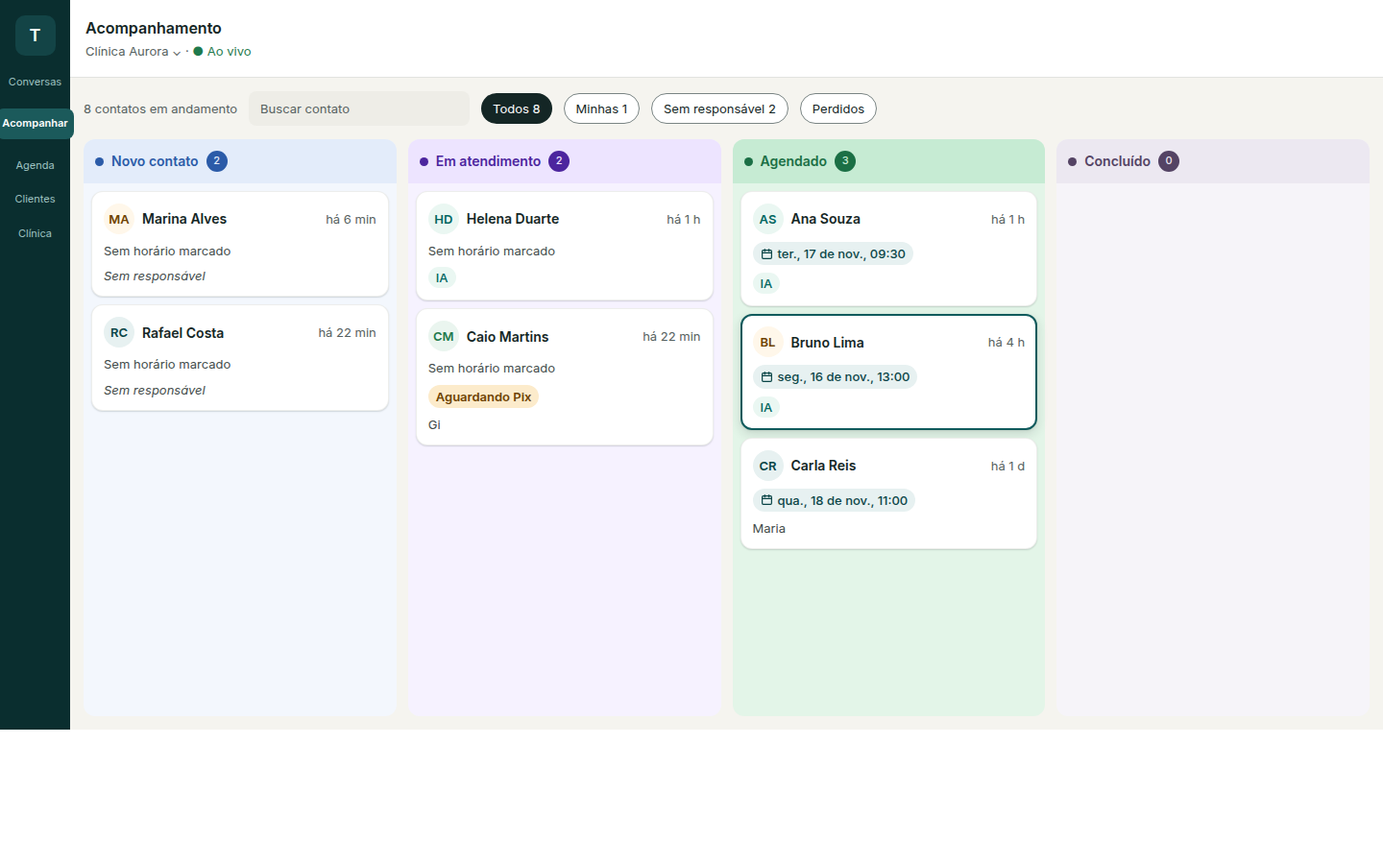
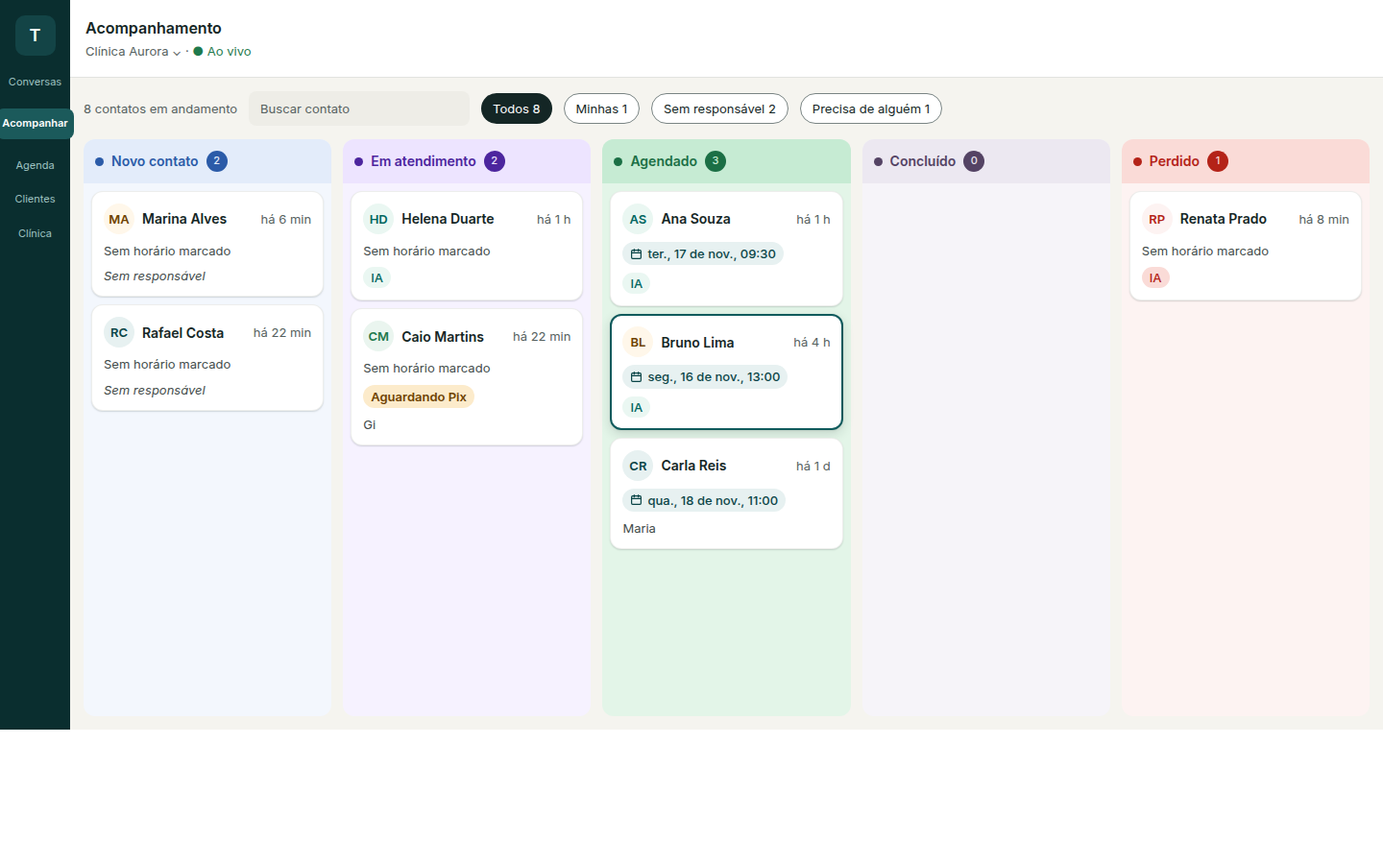
feat(panel): keep lost column visible (#1054)

diff --git a/src/client/panel/screens/acompanhamento/AcompanhamentoWideBoard.tsx b/src/client/panel/screens/acompanhamento/AcompanhamentoWideBoard.tsx
@@ -1,5 +1,5 @@
 import { CalendarDays, Search } from 'lucide-react'
-import { useEffect, useMemo, useRef, useState } from 'react'
+import { useEffect, useRef, useState } from 'react'
 import { Button, Input, SearchField } from 'react-aria-components'
 import type { OpportunityStage, PanelApi, PipelineOpportunity } from '../../api'
 import { useClinicTimezone } from '../../clinicTimezone'
@@ -20,12 +20,13 @@ import {
   relativeTime,
 } from './format'
 
-/** Etapas com coluna própria; «Perdido» só aparece quando a pessoa pede. */
+/** Etapas com coluna própria, incluindo o destino terminal DEC-228. */
 const MAIN_STAGES: OpportunityStage[] = [
   'novo_contato',
   'em_atendimento',
   'agendado',
   'concluido',
+  'perdido',
 ]
 
 type Filter = 'all' | 'mine' | 'unassigned' | 'needs_person'
@@ -57,7 +58,6 @@ export function AcompanhamentoWideBoard({ tenantId, api, generation, openId }: P
   const [viewerId, setViewerId] = useState<string | null>(null)
   const [filter, setFilter] = useState<Filter>('all')
   const [q, setQ] = useState('')
-  const [showLost, setShowLost] = useState(false)
   const [professionals, setProfessionals] = useState<Array<{ id: string; name: string }>>([])
   const [profFilter, setProfFilter] = useState<string[]>([])
   const returnFocus = useRef<HTMLElement | null>(null)
@@ -66,16 +66,11 @@ export function AcompanhamentoWideBoard({ tenantId, api, generation, openId }: P
   const { captureBeforeUpdate } = useKanbanFlip(boardRef, byStage)
   useOutsideClose(panelRef, () => closePanel(), openId != null)
 
-  const stages = useMemo<OpportunityStage[]>(
-    () => (showLost ? [...MAIN_STAGES, 'perdido'] : MAIN_STAGES),
-    [showLost],
-  )
-
   async function load(opts?: { keep?: boolean }) {
     setError(null)
     try {
       const results = await Promise.all(
-        stages.map((stage) =>
+        MAIN_STAGES.map((stage) =>
           api.listPipelineOpportunities(
             tenantId,
             // Concluído e Perdido são etapas finais (oportunidade «closed»): sem isto vêm sempre vazias.
@@ -85,7 +80,7 @@ export function AcompanhamentoWideBoard({ tenantId, api, generation, openId }: P
         ),
       )
       const next: Partial<Record<OpportunityStage, PipelineOpportunity[]>> = {}
-      stages.forEach((stage, i) => {
+      MAIN_STAGES.forEach((stage, i) => {
         next[stage] = results[i]?.opportunities ?? []
       })
       captureBeforeUpdate()
@@ -99,7 +94,7 @@ export function AcompanhamentoWideBoard({ tenantId, api, generation, openId }: P
 
   useEffect(() => {
     void load()
-  }, [tenantId, generation, stages])
+  }, [tenantId, generation])
 
   // Debounce maior no wide (várias colunas): coalescer rajadas sem jitter.
   useInboxRealtime((signals) => {
@@ -205,7 +200,7 @@ export function AcompanhamentoWideBoard({ tenantId, api, generation, openId }: P
   }
   if (!byStage) return <ListSkeleton label="Carregando acompanhamento…" />
 
-  const all = stages.flatMap((s) => byStage[s] ?? [])
+  const all = MAIN_STAGES.flatMap((s) => byStage[s] ?? [])
   // DEC-187: «contatos em andamento» = contactos distintos (gémeo não duplica o total).
   const total = new Set(
     all
@@ -257,13 +252,6 @@ export function AcompanhamentoWideBoard({ tenantId, api, generation, openId }: P
               </span>
             </Button>
           ))}
-          <Button
-            className="panel-chip"
-            aria-pressed={showLost}
-            onPress={() => setShowLost((v) => !v)}
-          >
-            Perdidos
-          </Button>
         </div>
         {professionals.length > 1 ? (
           <div className="acomp-wide-filters" role="group" aria-label="Filtrar por profissional">
@@ -300,7 +288,7 @@ export function AcompanhamentoWideBoard({ tenantId, api, generation, openId }: P
       ) : null}
 
       <div ref={boardRef} className="acomp-wide-board" role="group" aria-label="Quadro por etapa">
-        {stages.map((stage) => {
+          {MAIN_STAGES.map((stage) => {
           const cards = (byStage[stage] ?? []).filter(visible)
           return (
             <section

diff --git a/docs/design/desktop/AcompanhamentoQuadro.dc.html b/docs/design/desktop/AcompanhamentoQuadro.dc.html
@@ -38,7 +38,7 @@ button:focus-visible,a:focus-visible{outline:2px solid #0E5A5C;outline-offset:2p
 <span style="display: inline-flex; align-items: center; height: 32px; box-sizing: border-box; padding: 0 12px; border-radius: 999px; background: #142625; color: #FFFFFF; font-size: 13px">Todos 8</span>
 <span style="display: inline-flex; align-items: center; height: 32px; box-sizing: border-box; padding: 0 12px; border-radius: 999px; border: 1px solid #7A8584; background: #FFFFFF; font-size: 13px">Minhas 1</span>
 <span style="display: inline-flex; align-items: center; height: 32px; box-sizing: border-box; padding: 0 12px; border-radius: 999px; border: 1px solid #7A8584; background: #FFFFFF; font-size: 13px">Sem responsável 2</span>
-<span style="display: inline-flex; align-items: center; height: 32px; box-sizing: border-box; padding: 0 12px; border-radius: 999px; border: 1px solid #7A8584; background: #FFFFFF; font-size: 13px">Perdidos</span>
+<span style="display: inline-flex; align-items: center; height: 32px; box-sizing: border-box; padding: 0 12px; border-radius: 999px; border: 1px solid #7A8584; background: #FFFFFF; font-size: 13px">Precisa de alguém 1</span>
 </div>
 
 <div style="flex: 1; min-height: 0; display: flex; gap: 12px">
@@ -99,6 +99,17 @@ button:focus-visible,a:focus-visible{outline:2px solid #0E5A5C;outline-offset:2p
 
 <section aria-label="Concluído, 0" style="flex: 1 1 0; min-width: 0; background: #F6F4F9; border-radius: 12px; display: flex; flex-direction: column">
 <h2 style="margin: 0 0 8px; padding: 12px; border-radius: 12px 12px 0 0; background: #ECE8F1; color: #544364; font-size: 14px; font-weight: 600; display: flex; align-items: center; gap: 8px"><span aria-hidden="true" style="width: 9px; height: 9px; border-radius: 5px; background: #544364"></span>Concluído<span style="min-width: 22px; height: 22px; border-radius: 999px; background: #544364; color: #ECE8F1; font-size: 11px; font-weight: 500; display: inline-flex; align-items: center; justify-content: center">0</span></h2>
+</section>
+
+<section aria-label="Perdido, 1" style="flex: 1 1 0; min-width: 0; background: #FDF3F2; border-radius: 12px; display: flex; flex-direction: column">
+<h2 style="margin: 0 0 8px; padding: 12px; border-radius: 12px 12px 0 0; background: #FADBD7; color: #B42318; font-size: 14px; font-weight: 600; display: flex; align-items: center; gap: 8px"><span aria-hidden="true" style="width: 9px; height: 9px; border-radius: 5px; background: #B42318"></span>Perdido<span style="min-width: 22px; height: 22px; border-radius: 999px; background: #B42318; color: #FADBD7; font-size: 11px; font-weight: 500; display: inline-flex; align-items: center; justify-content: center">1</span></h2>
+<div style="display: flex; flex-direction: column; gap: 8px; padding: 0 8px 8px">
+<article style="background: #FFFFFF; border: 1px solid rgba(225, 227, 224, 0.6); border-radius: 12px; padding: 12px; display: flex; flex-direction: column; gap: 8px; box-shadow: 0 1px 2px rgba(20, 38, 37, 0.10), 0 1px 1px rgba(20, 38, 37, 0.06)">
+<div style="display: flex; align-items: center; gap: 8px"><span aria-hidden="true" style="width: 32px; height: 32px; border-radius: 16px; background: #FDF3F2; color: #B42318; font-size: 13px; font-weight: 600; display: inline-flex; align-items: center; justify-content: center; flex: none">RP</span><span style="flex: 1; font-weight: 600">Renata Prado</span><span style="font-size: 13px; color: #566160; white-space: nowrap">há 8 min</span></div>
+<span style="font-size: 13px; color: #424B4A">Sem horário marcado</span>
+<span style="align-self: flex-start; padding: 2px 8px; border-radius: 999px; background: #FADBD7; color: #B42318; font-size: 13px; font-weight: 500">IA</span>
+</article>
+</div>
 </section>
 
 </div>

diff --git a/src/client/panel/screens/acompanhamento/AcompanhamentoWideBoard.test.tsx b/src/client/panel/screens/acompanhamento/AcompanhamentoWideBoard.test.tsx
@@ -96,7 +96,7 @@ describe('AcompanhamentoWideBoard (quadro em largura total)', () => {
   })
   afterEach(cleanup)
 
-  it('mostra uma coluna por etapa com a contagem; «Perdido» fica de fora', async () => {
+  it('mostra as cinco colunas por etapa com a contagem, incluindo Perdido', async () => {
     mount()
     const board = await screen.findByRole('group', { name: 'Quadro por etapa' })
     const cols = within(board).getAllByRole('region')
@@ -105,16 +105,15 @@ describe('AcompanhamentoWideBoard (quadro em largura total)', () => {
       'Em atendimento, 2',
       'Agendado, 1',
       'Concluído, 0',
+      'Perdido, 1',
     ])
-    expect(screen.queryByText('Renata Lopes')).toBeNull()
+    expect(screen.getByText('Renata Lopes')).toBeTruthy()
+    expect(screen.queryByRole('button', { name: 'Perdidos' })).toBeNull()
   })
 
   it('pede ao servidor as oportunidades encerradas só para Concluído e Perdido', async () => {
     const api = makeApi()
     mount(undefined, api)
-    const user = userEvent.setup()
-    await screen.findByText('Maria Souza')
-    await user.click(screen.getByRole('button', { name: 'Perdidos' }))
     await screen.findByText('Renata Lopes')
     const calls = (api.listPipelineOpportunities as ReturnType<typeof vi.fn>).mock.calls as Array<
       [string, { stage: string; includeClosed?: boolean }]
@@ -136,7 +135,7 @@ describe('AcompanhamentoWideBoard (quadro em largura total)', () => {
     expect(maria.querySelector('.inbox-avatar')?.textContent).toBe('MS')
     expect(maria.querySelector('.acomp-card-unassigned')?.textContent).toBe('Sem responsável')
     const dots = Array.from(board.querySelectorAll('.acomp-col-dot')).map((d) => d.getAttribute('data-stage'))
-    expect(dots).toEqual(['novo_contato', 'em_atendimento', 'agendado', 'concluido'])
+    expect(dots).toEqual(['novo_contato', 'em_atendimento', 'agendado', 'concluido', 'perdido'])
     const empty = within(board).getByRole('region', { name: 'Concluído, 0' })
     expect(within(empty).queryByText('Ninguém aqui')).toBeNull()
     expect(empty.querySelector('.acomp-col-empty')).toBeNull()
@@ -182,14 +181,6 @@ describe('AcompanhamentoWideBoard (quadro em largura total)', () => {
     } finally {
       DATA.agendado = previous
     }
-  })
-
-  it('«Perdidos» acrescenta a coluna Perdido', async () => {
-    mount()
-    const user = userEvent.setup()
-    await screen.findByText('Maria Souza')
-    await user.click(screen.getByRole('button', { name: 'Perdidos' }))
-    expect(await screen.findByText('Renata Lopes')).toBeTruthy()
   })
 
   it('filtros: Minhas e Sem responsável (sem «Parados há mais de 2 dias» — DEC-208)', async () => {
@@ -491,6 +482,7 @@ describe('AcompanhamentoWideBoard — cartões ao vivo', () => {
         'Em atendimento, 1',
         'Agendado, 1',
         'Concluído, 0',
+        'Perdido, 1',
       ])
       // Mesmo contacto nas duas colunas → «1 contato em andamento».
       expect(screen.getByText('1 contatos em andamento')).toBeTruthy()

diff --git a/docs/product/decisions.md b/docs/product/decisions.md
@@ -287,7 +287,7 @@ Enquanto essas decisões não estiverem fechadas, é possível demonstrar a jorn
 | DEC-225 | **Confirmado** (Paulo, 21/11/2026, America/Sao_Paulo — Project «Clínica mobile top margin»; relaciona [#1012](https://github.com/intentzero/tredane/pull/1012) retomar IA) | Após marcar/remarcar/cancelar na página web: limpar handoff e retomar IA | Com conversa em «falar com a equipe» / Assumir / alerta aberto, a cliente resolvia o pedido na página (ADR-0018) e o fio ficava pausado ou «Precisa de alguém», sem a IA voltar a conduzir. | **Confirmado.** Depois de **agendar**, **remarcar** ou **cancelar** com sucesso na página web da cliente: se a conversa tiver pedido de equipe / `alter_awaiting_team` aberto, pausa DEC-083 ou Assumir (`staff_active` / responsável humano), o backend **limpa** o alerta/pausa e **retoma** a condução por IA (`resumeAiReply`, responsável `system:ai-autodraft`). Pix só sinalizado (ainda não marcado) **não** dispara. Um helper partilhado nos três sucesso-paths (DEC-222). | Paulo 21/11/2026. Completa DEC-202 / ADR-0018 no pós-acção web; alinha o espírito de retoma da [#1012](https://github.com/intentzero/tredane/pull/1012) (idle) e DEC-155 timeout. Não altera Assumir→Terminar no chat. L1 CW-18. |
 | DEC-226 | **Confirmado** (Paulo, 21/11/2026, America/Sao_Paulo — Project «Clínica mobile top margin», TRE-126: «Mídia não deve chamar atendente»; screenshot staging com `[Imagem]` após pedido de quarta) | Mídia (áudio/imagem/documento) **não** abre handoff | DEC-119/132 faziam a 2.ª mídia e o comprovativo Pix por imagem pausarem a IA e abrirem «Precisa de alguém». A owner quer que mídia seja ignorada no conteúdo (DEC-067) e a cliente receba só a frase de não suportado, **sem** chamar a equipe. | **Confirmado.** (1) Áudio, imagem ou documento **sem** legenda útil → frase DEC-130 («Ainda não consigo ouvir áudios nem ver imagens…») + botão «Falar com a equipe»; IA **activa**; **nunca** `notifyHumanHandoff` por mídia. (2) Revoga a excepção de comprovativo por imagem e a escala da 2.ª mídia (DEC-119/132). (3) Com IA já pausada por outro motivo, a mesma frase ainda sai **sem** alterar a pausa. (4) Imagem/documento **com** legenda continua pelo texto da legenda. DEC-067 mantém-se. | Paulo 21/11/2026 (TRE-126). Política única em `decideMediaOnlyTurn` (DEC-222). L1 C-10/C-14/C-15/C-16. |
 | DEC-227 | **Confirmado** (Paulo, 24/11/2026, America/Sao_Paulo — «Aprovado, implementa» sobre o canvas de 9 ecrãs e os mocks [C-04](../design/cliente/C-04-Horario.html) e [C-13](../design/cliente/C-13-Agora.html); as escolhas de direção — grade de 15 min, 3 horários + «Outros horários», gravidade das marcações confirmadas, hora pedida primeiro, antecedência explicada só quando corta, bypass da antecedência no painel — vieram na mesma sessão) | Página da cliente: «Quando prefere?» e poucos horários escolhidos pelo servidor | O passo Quando? (C-04, ADR-0018) mostra uma semana e **todas** as horas livres do dia por Manhã/Tarde/Noite. Numa clínica pouco ocupada a cliente vê uma grade cheia e lê «não tem clientes», o que tira valor à clínica. A cliente pensa em conveniência («já», «hoje à tarde», «amanhã», «dia X»), não em grade. As horas oferecidas não ajudam a clínica a juntar marcações: sem marcações as profissionais nem vão à clínica. A antecedência mínima (DEC-182) corta horas sem explicação e também bloqueia a equipe no painel. | **Confirmado.** (1) **Grade:** fica a de 15 min (DEC-008); o motor nunca usou blocos com a duração do serviço. «Agora» = primeiro quarto de hora livre ≥ agora + antecedência. (2) **Conveniência primeiro:** o passo abre com «Quando prefere?»: **Agora** · **Hoje de manhã** · **Hoje à tarde** · **Amanhã** · **Outra data** (calendário C-12, com «Tem uma hora em mente?» opcional). Chips de hoje somem quando o período já passou ou não tem vaga; «Agora» some sem vaga nas próximas 2 h. Sai a faixa da semana e a grade por período. (3) **Poucos horários:** a página mostra **3** horas escolhidas pelo servidor e «Outros horários» (mais 3 de cada vez); nunca a grade inteira. Sem vaga na conveniência: «Próximo livre: …» com a primeira vaga depois dela. (4) **Gravidade:** marcações **confirmadas** do dia atraem as seguintes — colada a uma marcação da mesma profissional pontua mais, a pontuação cai até 3 h de distância; outra profissional no mesmo dia vale metade. Sem marcação no dia, vence a hora mais perto da conveniência, e essa marcação passa a atrair as próximas. Horas escolhidas ficam a ≥ 30 min umas das outras. Holds e pendentes de Pix não atraem. Com «Sem preferência» a gravidade vem antes do rodízio (revê DEC-218 só neste ponto); com profissional escolhida, só ela conta. (5) **Hora pedida:** se a cliente disse uma hora (no chat ou no calendário) e ela está livre, sai em primeiro, fora da gravidade; se não, as vizinhas. (6) **Antecedência:** continua opcional (DEC-182, padrão Desligado) e vale para a página e o chat. A página só a explica quando corta: «O mais cedo possível é às HH:MM.» **A equipe no painel (Agendar manual) ignora a antecedência**; o passado continua recusado. (7) **Padrão da antecedência:** a migração 0063 criou a coluna com 30 min, mas a clínica nova nasce com 0 (Desligado) porque o `INSERT` de `ensureClinicSettings` grava o valor explicitamente; **nenhuma migração** muda o valor de clínicas existentes, que podem estar a cortar 30 min sem a responsável saber (DEC-182 já o registava). | Paulo, 24/11/2026 (escolhas 1, 3–6 e bypass). Revê o passo horário da [ADR-0018](../adr/0018-pagina-web-cliente.md) («semana com setas, Manhã/Tarde/Noite»), completa DEC-182 (bypass da equipe) e DEC-218 (gravidade antes do rodízio). Mantém DEC-008, DEC-201 (horizonte), DEC-197 (só Confirmar marca). **Implementado em 24/11/2026 (staging, não em produção):** `pick-slots.ts`, `attractors.ts` e `applyBookingLead` no motor; `when` em `POST /api/c/availability` (agendar e remarcar); `TimeStep` novo; a gravidade vem antes do rodízio também ao marcar e ao remarcar com «Sem preferência» (`planWebProposal` e `planWebReschedule`). Pix pago passa a revalidar sem antecedência (honra uma hora já oferecida). **Fechado depois (24/11/2026, mesmo PR):** chips Manhã/Tarde na folha do calendário e a linha «Nenhum serve? Fale com a equipe no WhatsApp.» no estado sem vaga (texto, como o resto da página; a página não tem link para o WhatsApp). **Revisão do calendário (24/11/2026, Paulo: «melhora este formulário — manhã, tarde ou hora específica»; «Sim, implementa»):** a folha C-12 passa a ter «Que horas lhe dá jeito?» no topo — Qualquer · Manhã (até 12h) · Tarde (12h–18h) · Hora certa, uma só escolha (antes, hora e Manhã/Tarde podiam combinar-se); «Hora certa» usa horas e minutos de 15 em 15 em vez do campo `time` nativo; tocar num dia só o seleciona e o botão «Ver horários» confirma (antes, o toque no dia fechava a folha e a hora ficava por baixo, fora de vista). Semântica do pedido ao servidor inalterada (`requestedTime`, `dayPart`). **Revisão dos chips e da navegação (24/11/2026, Paulo: «agora e hoje à tarde mostram o mesmo horário, é redundante… em vez de outros horários, mais cedo ou mais tarde»; «Sim, implementa»):** (i) o chip de período de hoje que coincide com o período atual some quando «Agora» existe (14:15: sem «Hoje à tarde»; de manhã: sem «Hoje de manhã»); (ii) «Amanhã» passa a «Amanhã de manhã» e «Amanhã à tarde» (`amanha_manha`, `amanha_tarde`; `amanha` continua aceite); (iii) «Outros horários» (`offset`, `hasMore`) dá lugar a «Mais cedo» / «Mais tarde» (`direction` + `pivot`, `hasEarlier`, `hasLater`): as 3 vagas seguintes do mesmo dia em ordem de hora, a ≥ 30 min entre si, atravessando períodos. A primeira escolha continua por gravidade. **Em aberto / fora deste recorte:** (a) raio de 3 h e meio peso para outra profissional são valores iniciais, a validar com a clínica piloto; (b) **a hora dita no chat não chega ao link, e a data e o período também não**: desde a DEC-220 o chat emite «Abrir agenda» sempre como `home`, com `serviceId`, data e período a `null` (`autodraft.ts`); a cadeia `preferred_date`/`day_part` (D1 0034, `link-preset.ts`, `BookFlow`) só é alimentada hoje por quem chamar `issueClientWebLink` com esses campos. Pôr `preferred_time` nessa cadeia sem religar os presets seria código morto, e religá-los reveria a DEC-220. **Decidido (Paulo, 24/11/2026): a DEC-220 não se revê**; o link do chat continua `home` sem preset e a hora só se pede no calendário. A cadeia `preferred_date`/`day_part` fica sem uso do chat; (c) o chat (`offerNearestSlots`) **não** adopta a gravidade: desde a DEC-202 o chat não oferece horas, e a função só serve `offerAlternativesForProposal` (caminho legado do botão do WhatsApp); (c2) **custo do «Próximo livre»** (medido a 24/11/2026, em memória, 30 dias lotados): de ~20 900 consultas SQL para ~3 200 com 3 profissionais, e de ~6 800 para ~950 com 1, por (i) saltar em memória as horas fora do expediente da profissional e os dias em que ninguém trabalha, (ii) ler bloqueios, holds e dados da sala uma vez por dia e (iii) ler definições e prontidão uma vez por pedido; o calendário do mês desce na mesma proporção (~18 400 → ~1 300). Não se mediram as linhas lidas que o Durable Object fatura. Testes: `day-cache-consistency.test.ts`, `hold-index-equivalence.test.ts`; (d) o raio de «Agora» (2 h) e `minGapMinutes` (30) são constantes em `pick.ts`/`pick-slots.ts`. Código: `src/clinic/scheduling/pick-slots.ts`, `src/clientweb/pick.ts`. **Revisão 24/11/2026 (Paulo, «Sim, implementa» sobre o canvas «fila curada», Proposto):** os chips Agora/Hoje de manhã/Hoje à tarde/Amanhã de manhã/Amanhã à tarde e os botões «Mais cedo» / «Mais tarde» dão lugar a uma **faixa de dias** (sem contagens), às 3 horas sugeridas e a uma **fila horizontal curada** do dia: o servidor envia até 4 horas por período (Manhã, Tarde, Noite) a ≥ 45 min entre si, mais as sugeridas, e **nunca a agenda completa** (para uma clínica com poucas marcações não parecer vazia; a grade vertical foi recusada por esse motivo). «Outra hora?» pergunta uma hora e o servidor responde só sobre ela (a própria hora ou a mais próxima). API: `direction`/`pivot`/`wantChips`/`hasEarlier`/`hasLater` saem; entram `askTime`, `rail` e `ask`. Em aberto: limite de pedidos por sessão ao «Outra hora?» (hoje só o limite geral da rota) e os valores 4 por período / 45 min, a validar com a clínica piloto. **Revisão 25/11/2026 (Paulo, «Sim, implementa», Proposto):** (1) hoje depois do fim do expediente mostra «encerrado», não «cheio» (novo motivo `ended` no servidor; «fechado» = sem expediente, «cheio» = aberta sem vagas); (2) as horas sugeridas deixam de ter cor na fila «Outros horários» (um utilizador leu a cor como «ocupado»); (3) cabeçalho e blocos do passo com mais espaço. |
-| DEC-228 | **Confirmado** (Paulo, 24/11/2026, America/Sao_Paulo) | Despedida encerra oportunidade; pipeline sem «Horário proposto» | «Tchau» recebia a despedida, mas deixava a oportunidade em atendimento, preservava proposta/frame/sujeito de catálogo e enviava «Abrir agenda». «Encerrar» da equipe divergia da DEC-066. «Horário proposto» já não representa o fluxo da página e misturava estado comercial com Pix pendente. | **Confirmado.** (1) O léxico determinístico de despedida usa frases normalizadas exatas/ancoradas, sem falso positivo por substring: `tchau`, `xau`, `adeus`, `até logo`, `até mais`, `até breve`, `até amanhã`, `falamos depois`, `nos falamos`, `era só isso`, `só isso por enquanto`, `não preciso de mais nada`, com flexões seguras. `obrigado/obrigada`, `valeu`, `bom dia` e `boa noite` isolados **não** encerram. (2) A despedida limpa proposta, `BookingFrame` e `ActiveCatalogSubject`, suprime follow-up e responde **sem** CTA «Abrir agenda». (3) Sem compromisso futuro, fecha a oportunidade aberta em **Perdido**; com compromisso futuro, preserva **Agendado** e limpa o gémeo de atendimento pelo invariante existente. (4) «Encerrar» manual da equipe segue a mesma regra de etapa. (5) A interface remove a coluna/aba e a correção manual **Horário proposto**. Registos persistidos em `horario_proposto` continuam compatíveis e são projetados em **Em atendimento**, sem migração destrutiva do histórico. Novas cobranças Pix pendentes ficam em **Em atendimento** e o cartão mostra o chip **«Aguardando Pix»**; confirmação paga segue para Agendado. Contagens, filtros e eventos em tempo real usam a etapa projetada. | Paulo, 24/11/2026. **Revoga** DEC-216(c), **substitui** DEC-066 e **revê** DEC-062, DEC-008 e DEC-215. Confirma a limpeza do sujeito da DEC-223 e o destino de fim já alinhado às DEC-087/152/208. |
+| DEC-228 | **Confirmado** (Paulo, 24/11/2026, America/Sao_Paulo; revisão da coluna Perdido na mesma data) | Despedida encerra oportunidade; pipeline sem «Horário proposto» | «Tchau» recebia a despedida, mas deixava a oportunidade em atendimento, preservava proposta/frame/sujeito de catálogo e enviava «Abrir agenda». «Encerrar» da equipe divergia da DEC-066. «Horário proposto» já não representa o fluxo da página e misturava estado comercial com Pix pendente. | **Confirmado.** (1) O léxico determinístico de despedida usa frases normalizadas exatas/ancoradas, sem falso positivo por substring: `tchau`, `xau`, `adeus`, `até logo`, `até mais`, `até breve`, `até amanhã`, `falamos depois`, `nos falamos`, `era só isso`, `só isso por enquanto`, `não preciso de mais nada`, com flexões seguras. `obrigado/obrigada`, `valeu`, `bom dia` e `boa noite` isolados **não** encerram. (2) A despedida limpa proposta, `BookingFrame` e `ActiveCatalogSubject`, suprime follow-up e responde **sem** CTA «Abrir agenda». (3) Sem compromisso futuro, fecha a oportunidade aberta em **Perdido**; com compromisso futuro, preserva **Agendado** e limpa o gémeo de atendimento pelo invariante existente. (4) «Encerrar» manual da equipe segue a mesma regra de etapa. (5) A interface remove a coluna/aba e a correção manual **Horário proposto**. Registos persistidos em `horario_proposto` continuam compatíveis e são projetados em **Em atendimento**, sem migração destrutiva do histórico. Novas cobranças Pix pendentes ficam em **Em atendimento** e o cartão mostra o chip **«Aguardando Pix»**; confirmação paga segue para Agendado. Contagens, filtros e eventos em tempo real usam a etapa projetada. (6) No quadro desktop, **Perdido é sempre a quinta coluna visível**, com a sua contagem; sai o botão que apenas revelava a coluna. | Paulo, 24/11/2026. **Revoga** DEC-216(c), **substitui** DEC-066 e **revê** DEC-062, DEC-008 e DEC-215. Confirma a limpeza do sujeito da DEC-223 e o destino de fim já alinhado às DEC-087/152/208. Revisão expressa de Paulo em 24/11/2026: «quero a coluna perdidos sempre visível». |
 | DEC-C1 | **Proposto → em progresso** (direcção aprovada Paulo 08/11/2026; #628 + P1 stack/realize no gate) | Pesquisa de preço/duração como obrigação cross-cutting | «Quanto custa?» / «qual o valor?» a meio do funil (ask-tipo, oferta de slots) era tratado como miss e reabria tipos ou limpava variante. Preferência Paulo 08/11: preço é intent de 1.ª classe. | `ask_info` no gate cross-cutting; mid-funnel realizado via `ask-info-realize` + stack park/resume (não limpa variante / não reabre tipo por engano); autodraft cede ao `runBookingTurn`. Formalizar como DEC numerada ou issue sob [#579](https://github.com/intentzero/tredane/issues/579). | Engenharia no gate; formalizar DEC. |
 | DEC-C2 | **Proposto → a formalizar** (Paulo aprovou direcção 08/11/2026; #629 + teste de paridade) | Hint de saída ⊆ Class A | DEC-152 ensinou «diga terminar» sem o regex A reconhecer «terminar» mid-funnel (#629). | Toda copy que ensina comando de saída («diga X») obriga reconhecimento de X na Class A (DEC-147) **no mesmo PR**, com teste de paridade hint↔regex (`botTaughtExitCommands`). Não aplica a «diga serviços masculinos» (DEC-142, não é saída). | Evita regressões #629-class. Formalizar sob DEC-147/152 ou issue #579. |
 | DEC-C3 | **Proposto → em progresso** (Paulo aprovou direcção 08/11/2026; engenharia P1 + L1 A-37) | Option-miss só sob obrigação de escolha | Qualquer texto não casado caía em «Não encontrei … nas opções» (zone leftover), mesmo quando a cliente não tentava escolher zona. | Option-miss só quando o turno *tentou* escolher opção do `pending` / catálogo de variantes; senão acto `esclarecer` / `servico_inexistente` (ou confusão DEC-151). Com `pending.slot=horario`, leftover de zona → `esclarecer` sem limpar variante (L1 A-37). | Casa com P1 `DialogueObligation`; formalizar sob #579. |

diff --git a/docs/design/screens.md b/docs/design/screens.md
@@ -89,7 +89,7 @@ Cada linha liga um mock a sua especificação. **A especificação manda:** em c
 | M-80 | `ServicoOpcoesAgrupadas` | TEL-09 serviço (**Confirmado**, DEC-176) | JRN-08 · REQ-052 · DEC-078, DEC-079 | Opções agrupadas pelo nome: tempo e preço por público, sinônimos ou «Sem sinônimos», **Mudar todos…**, nota do modo e «Como fica na agenda» com exemplo | M-16, M-81 |
 | M-81 | `ServicoEditarOpcao` | TEL-09 serviço (**Confirmado**, DEC-176) | JRN-08 · REQ-052 · DEC-079, DEC-110 | Folha da opção: nome e sinônimos comuns; uma linha por público (caixa, minutos, preço com prefixo **R$** e máscara BR); **Remover zona…**, **Cancelar**, **Aplicar** | M-80 |
 | M-82 | `desktop/ServicosPalavras` | TEL-09 lista de Serviços (**Confirmado**, DEC-176) | JRN-08 · DEC-110, DEC-141 | «O que a IA reconhece»: palavras não reconhecidas no topo; cada nome do catálogo com as suas palavras, procura e aviso de palavra repetida | M-63, M-72 |
-| M-83 | `desktop/AcompanhamentoQuadro` | TEL-03 quadro (**Confirmado**, DEC-184, 14/11/2026; coluna vazia revista DEC-187 16/11; sem «Parado» 20/11/2026) | JRN-03, JRN-04 · REQ-023 · DEC-040, DEC-165, DEC-208 | Quadro desktop com cartões em elevação E1 (selecionado em E2 com anel), avatar com iniciais, data da marcação em chip, «IA» em chip, ponto de etapa no título; coluna com fundo e cabeçalho na cor da etapa (DEC-215, 19/11/2026); coluna vazia só com cabeçalho + contagem 0 (sem «Ninguém aqui»); barra de busca e filtros «Todos», «Minhas», «Sem responsável», «Precisa de alguém», «Perdidos» (sem «Parados há mais de 2 dias») |
+| M-83 | `desktop/AcompanhamentoQuadro` | TEL-03 quadro (**Confirmado**, DEC-184, 14/11/2026; coluna vazia revista DEC-187 16/11; sem «Parado» 20/11/2026; Perdido sempre visível 24/11/2026) | JRN-03, JRN-04 · REQ-023 · DEC-040, DEC-165, DEC-208, DEC-228 | Quadro desktop com cartões em elevação E1 (selecionado em E2 com anel), avatar com iniciais, data da marcação em chip, «IA» em chip, ponto de etapa no título; as cinco colunas Novo contato, Em atendimento, Agendado, Concluído e Perdido ficam sempre visíveis, com fundo, cabeçalho e contagem na cor da etapa (DEC-215/228); coluna vazia só com cabeçalho + contagem 0 (sem «Ninguém aqui»); barra de busca e filtros «Todos», «Minhas», «Sem responsável» e «Precisa de alguém» (sem botão «Perdidos» e sem «Parados há mais de 2 dias») |
 | M-84 | `AssistenteProtecoes` | TEL-09 Assistente › Proteções (**Confirmado**, DEC-217) | JRN-08 · DEC-042, DEC-217 | Interruptor «Limitar excessos» e seis números: janela, respostas automáticas, marcações e mudanças por cliente e na clínica, marcações à frente, Pix por pagar | M-74 |
 | M-41 | `BloquearContato` | TEL-01 conversa | JRN-02 | Diálogo central de confirmação: o que acontece (mensagens novas não aparecem, ninguém responde, conversa encerrada; histórico e horários ficam), motivo opcional (só a equipe vê), **Bloquear contato** e **Cancelar**. **Proposto** (27/10/2026) | M-40, M-42 |
 | M-42 | `ContatoBloqueado` | TEL-01 conversa | JRN-02 | Conversa de contato bloqueado: cabeçalho «Bloqueado por Ana · hoje, 19:20», evento «Ana bloqueou este contato» e, no lugar do compositor, aviso com **Desbloquear**. **Proposto** (27/10/2026) | M-41, M-02 |

diff --git a/docs/product/ux-ui.md b/docs/product/ux-ui.md
@@ -137,7 +137,7 @@ Nome na interface: **Acompanhamento** (DEC-045). Na barra inferior de quatro ite
 - Quadro com as etapas confirmadas pela DEC-228: **Novo contato → Em atendimento → Agendado → Concluído** e coluna **Perdido** separada visualmente à direita. Registos legados em `horario_proposto` aparecem em **Em atendimento**; não há migração destrutiva do histórico.
 - Cartão: nome do contato, responsável, último contato (relativo), próximo compromisso (ou “Sem horário marcado”), ação “Abrir conversa”, indicador de mensagem pendente/falha.
 - No celular (M-05), uma etapa por vez em abas roláveis com contagem; o botão **Mover** abre uma folha inferior com as etapas visíveis. No desktop, a etapa muda pela conversa ou pela correção acessível. O cartão fica em estado “Movendo…” até confirmação; em falha, volta à coluna original com aviso.
-- **Desktop ≥ 1280 px (Confirmado, DEC-072; Proposto de desenho em canvas privado):** quadro em largura total, sem coluna de contexto; barra com busca e filtros «Todos», «Minhas», «Sem responsável», «Precisa de alguém» e «Perdidos» (acrescenta a coluna); clique no cartão abre o contato num painel por cima (DEC-069); **sem arrastar** (DEC-062), a etapa muda pela conversa. Filtro «Profissional» pelo compromisso ligado, só cartões com compromisso, com aviso ([#254](https://github.com/intentzero/tredane/issues/254)). **Revisão (Paulo, 20/11/2026):** sem filtro nem chip «Parados há mais de 2 dias» / «Parado» — obsoleto com idle 30 min (DEC-208). **Fora do MVP (Paulo, 29/10/2026):** paginação por coluna (limite de 100 cartões por etapa; ver DEC-072).
+- **Desktop ≥ 1280 px (Confirmado, DEC-072; revisão Paulo 24/11/2026):** quadro em largura total, sem coluna de contexto; as cinco colunas **Novo contato, Em atendimento, Agendado, Concluído e Perdido** ficam sempre visíveis. A barra mantém busca e filtros «Todos», «Minhas», «Sem responsável» e «Precisa de alguém»; não há botão para revelar Perdido. Clique no cartão abre o contato num painel por cima (DEC-069); **sem arrastar** (DEC-062), a etapa muda pela conversa. Filtro «Profissional» pelo compromisso ligado, só cartões com compromisso, com aviso ([#254](https://github.com/intentzero/tredane/issues/254)). **Revisão (Paulo, 20/11/2026):** sem filtro nem chip «Parados há mais de 2 dias» / «Parado» — obsoleto com idle 30 min (DEC-208). **Fora do MVP (Paulo, 29/10/2026):** paginação por coluna (limite de 100 cartões por etapa; ver DEC-072).
 - Cobrança pendente não cria coluna: o cartão fica em **Em atendimento** com chip **«Aguardando Pix»**; o horário continua sem reserva até o pagamento (DEC-228).
 - Mover para **Agendado** sem compromisso vinculado é **permitido** (Confirmado, DEC-040): o cartão exibe “Sem compromisso vinculado” e oferece **Agendar horário**; mudar etapa nunca cria compromisso.
 - Filtros: responsável, “Minhas”, busca por nome. Relatórios e totais avançados ficam **Fora do MVP**.
